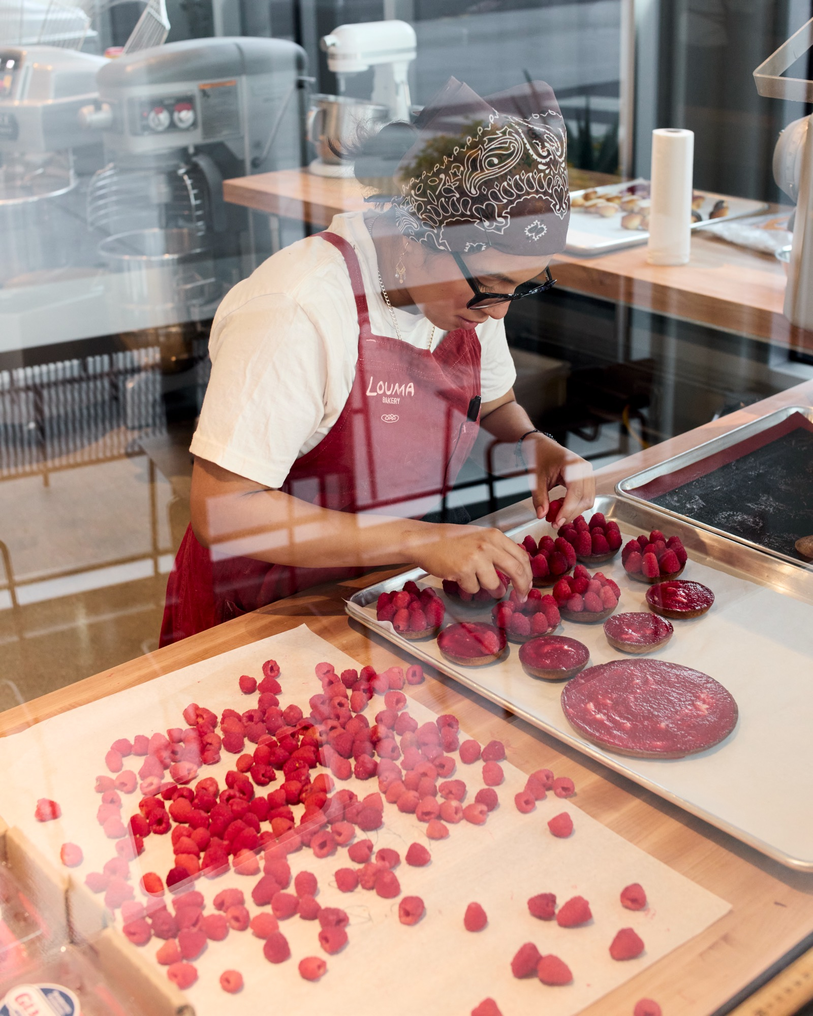
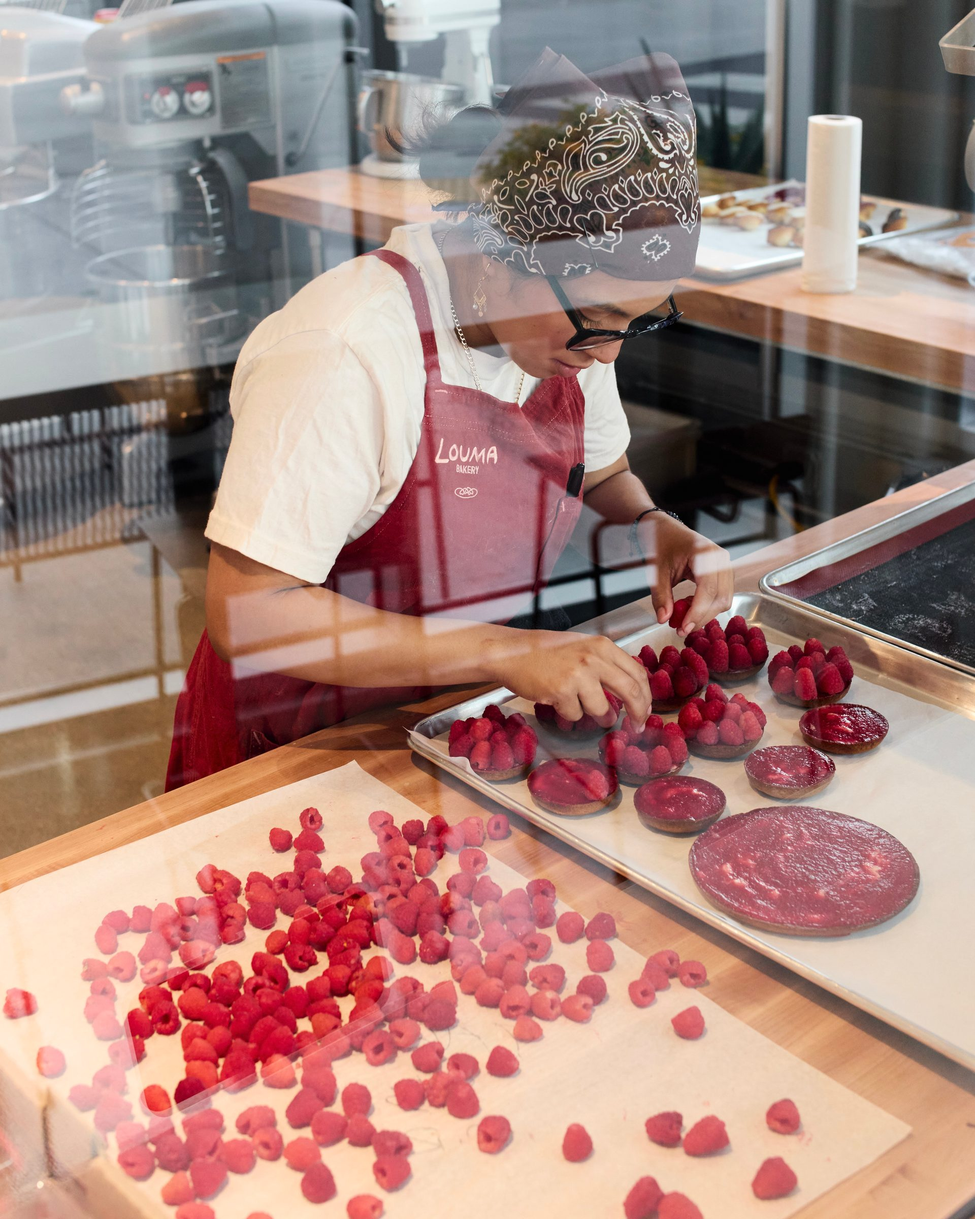
Photography: new shoot, hat cutout, signature, hand-drawn map
- New photos from the owner's Dropbox and the website brief, filed under
  descriptive names: home hero (croissant-grid.jpg, renamed from hero.jpg),
  six home gallery photos, two Our Story photos, the storefront window for
  Contact, six Instagram tiles, and 14 library photos in unplaced/.
  Same-shot files referenced by menu.json were refreshed in place.
- Every photo: EXIF orientation applied, sRGB, long edge <= 2400px (hero
  3000px), JPEG q82, all metadata stripped, <= 1.5 MB. Camera roll fixed on
  three frames (storefront 5.05, kitchen 1.0, flowers 0.67 degrees).
- Hat cutout (rembg u2net, shadow dropped, edge cleaned) on Shop.
- signature-milla.svg and map-hand-drawn.svg traced with potrace; the map
  renders in red on Contact with the storefront photo below it.
- images.json reshaped (hero, homeGallery, story, storefront, each with
  alt text), new Zod collection, CMS "Photos" collection to match; old
  founder/story1/story2/ig1 slots removed. instagram.json uses ig-1..6.
- CREDITS.md lists every committed photo with source, shoot and use.

diff --git a/src/content.config.ts b/src/content.config.ts
@@ -96,6 +96,22 @@ const shop = defineCollection({
   }),
 });
 
+// Site photos (CMS: "Images"). Filenames in src/assets/img; every photo has
+// its alt text beside it. homeGallery and story are registered for the next
+// layout phase; hero and storefront render today.
+const photo = z.object({ image: z.string(), alt: z.string() });
+const images = defineCollection({
+  loader: file('src/data/images.json', { parser: (text) => [{ id: 'images', ...JSON.parse(text) }] }),
+  schema: z.object({
+    hero: z.string(),
+    heroAlt: z.string(),
+    homeGallery: z.array(photo),
+    story: z.array(photo),
+    storefront: z.string(),
+    storefrontAlt: z.string(),
+  }),
+});
+
 const instagram = defineCollection({
   loader: file('src/data/instagram.json', {
     parser: (text) => JSON.parse(text).items.map((it: object, i: number) => ({ id: `tile-${i + 1}`, ...it })),
@@ -112,4 +128,5 @@ export const collections = {
   story,
   shop,
   instagram,
+  images,
 };

diff --git a/src/lib/images.ts b/src/lib/images.ts
@@ -3,7 +3,7 @@ import type { ImageMetadata } from 'astro';
 // TODO(photo-ids): unplaced/seeded-knot-tissue.jpg and unplaced/seeded-knot-detail.jpg
 //   look like the coiled Za'atar Croissant (zaatar-croissant.jpg, confirmed by
 //   the case label in 20260904_LoumaBakery_0126) but are not confirmed themselves.
-// TODO(founder-portrait): no portrait of Milla yet; see src/pages/story.astro.
+// TODO(founder-portrait): no portrait of Milla yet (the Story page has no portrait slot).
 
 /**
  * Shared bakery-photo resolver. One eager glob of the image folder, reused by

diff --git a/src/assets/img/CREDITS.md b/src/assets/img/CREDITS.md
@@ -1,50 +1,102 @@
 # Image credits
 
-All photos here are from Louma Bakery's own commissioned shoots, photographed
-by Kayla on 2026-08-30 and 2026-09-04. Processed from the originals (kept
-outside the repo): converted to sRGB, long edge 2400px (plain-croissant 1600px;
-crops are never upscaled), metadata stripped. The build makes the web sizes from these.
+Photos from Louma Bakery's own commissioned shoots (photographed by Kayla on
+2026-08-30 and 2026-09-04), phone photos from the owner's Dropbox (`IMG_` files
+and two undated exports), and two photos extracted from the owner's website
+brief (`website (1).pdf`). Originals are kept outside the repo.
 
-Photos in `unplaced/` are kept for the Visit, Mission, Careers and Catering
-pages but are NOT bundled: the glob in src/lib/images.ts only matches files
-directly in this folder. To use one, move it up a level and reference it.
+Processing (October 2026, Phase 4): EXIF orientation applied, converted to sRGB
+from the embedded profile (Adobe RGB or Display P3), long edge capped at 2400px
+(the hero at 3000px, plain-croissant at 1600px; never upscaled), JPEG quality 82,
+all metadata stripped (GPS included). Every file is 1.5 MB or less. Camera roll
+was corrected only where a wall, window, shelf or door frame was off by more
+than 0.5 degrees (rotation noted below); subjects placed at an angle on purpose
+were left alone. The build makes the web sizes from these.
 
-| File | Slot | Photographer | Shoot | Original |
-|------|------|--------------|-------|----------|
-| hero.jpg | Home hero; source of public/og-default.jpg | Kayla | 2026-08-30 | 20260830_LoumaBakery_0578 |
-| plain-croissant.jpg | Menu: Plain Croissant (second copy of the hero frame) | Kayla | 2026-08-30 | 20260830_LoumaBakery_0578 |
-| kitchen-team.jpg | Home collage (story2) | Kayla | 2026-08-30 | 20260830_LoumaBakery_0139 |
-| lamination.jpg | Home collage (story1) | Kayla | 2026-08-30 | 20260830_LoumaBakery_0198 |
-| pain-au-chocolat.jpg | Menu: Pain au Chocolat | Kayla | 2026-08-30 | 20260830_LoumaBakery_0093 |
-| ham-cheese-croissant.jpg | Menu: Ham & Cheese Croissant (confirmed by the case label in 20260904_LoumaBakery_0126). Square crop of the seeded tray only, 1200x1200 | Kayla | 2026-08-30 | 20260830_LoumaBakery_0070 (crop x150 y0, 3150x3150) |
-| kaak-bread.jpg | Menu: Kaak Bread. Single top-middle loaf on the bread shelf, 210x210 (menu thumbnail only) | Kayla | 2026-09-04 | 20260904_LoumaBakery_0126 (crop x2722 y1905, 210x210) |
-| baguette.jpg | Menu: Baguette | Kayla | 2026-08-30 | 20260830_LoumaBakery_0258 |
-| latte.jpg | Menu: Latte | Kayla | 2026-08-30 | 20260830_LoumaBakery_0190 |
-| zaatar-croissant.jpg | Menu: Za'atar Croissant; home collage (ig1). Confirmed by the case label in 20260904_LoumaBakery_0126 | Kayla | 2026-08-30 | 20260830_LoumaBakery_0281 |
-| unplaced/staff-at-case.jpg | Unplaced, not bundled (was the classic layout's story3) | Kayla | 2026-08-30 | 20260830_LoumaBakery_0375 |
-| unplaced/seeded-knot-tissue.jpg | Unplaced, not bundled (item unconfirmed) | Kayla | 2026-08-30 | 20260830_LoumaBakery_0278 |
-| unplaced/seeded-knot-detail.jpg | Unplaced, not bundled (item unconfirmed) | Kayla | 2026-08-30 | 20260830_LoumaBakery_0083 |
-| unplaced/coffee-unidentified.jpg | Unplaced, not bundled. Foreground cup with rosetta; drink type unconfirmed (latte, flat white or cappuccino), ask Milla | Kayla | 2026-08-30 | 20260830_LoumaBakery_0190 (crop x2250 y6740, 1500x1000) |
-| unplaced/viennoiserie-spread.jpg | Unplaced, not bundled | Kayla | 2026-08-30 | 20260830_LoumaBakery_0079 |
-| unplaced/madeleine-production.jpg | Unplaced, not bundled | Kayla | 2026-08-30 | 20260830_LoumaBakery_0300 |
-| unplaced/louma-cap.jpg | Unplaced, not bundled | Kayla | 2026-08-30 | 20260830_LoumaBakery_0340 |
-| raspberry-tart.jpg | Menu: Small Raspberry Tart | Kayla | 2026-09-04 | 20260904_LoumaBakery_0034 |
-| sourdough.jpg | Menu: Sourdough Bread (1012x1262 crop of one boule) | Kayla | 2026-09-04 | 20260904_LoumaBakery_0041 |
-| unplaced/bread-wall.jpg | Unplaced, not bundled (shelf of mixed breads) | Kayla | 2026-09-04 | 20260904_LoumaBakery_0041 |
-| madeleine-vanilla.jpg | Menu: Madeleine Vanilla (crop, white finish only) | Kayla | 2026-09-04 | 20260904_LoumaBakery_0049 |
-| madeleine-chocolate.jpg | Menu: Madeleine Chocolate (crop, chocolate finish only, 1486x1800) | Kayla | 2026-09-04 | 20260904_LoumaBakery_0049 |
-| madeleine-raspberry.jpg | Menu: Madeleine Raspberry (crop, raspberry finish only, 1380x1800) | Kayla | 2026-09-04 | 20260904_LoumaBakery_0049 |
-| unplaced/madeleines.jpg | Unplaced, not bundled (tray of all three finishes) | Kayla | 2026-09-04 | 20260904_LoumaBakery_0049 |
-| almond-croissant.jpg | Menu: Nutty Croissant | Kayla | 2026-09-04 | 20260904_LoumaBakery_0146 |
-| croissant-cut.jpg | Story chapter 01 | Kayla | 2026-09-04 | 20260904_LoumaBakery_0307 |
-| out-of-oven.jpg | Story chapter 02 | Kayla | 2026-09-04 | 20260904_LoumaBakery_0255 |
-| bakery-rack.jpg | Story chapter 03 | Kayla | 2026-09-04 | 20260904_LoumaBakery_0068 |
-| storefront.jpg | Story chapter 04 | Kayla | 2026-09-04 | 20260904_LoumaBakery_0084 |
-| unplaced/door-hours.jpg | Unplaced, not bundled | Kayla | 2026-09-04 | 20260904_LoumaBakery_0092 |
-| unplaced/interior-long.jpg | Unplaced, not bundled | Kayla | 2026-09-04 | 20260904_LoumaBakery_0437 |
-| unplaced/interior-dining.jpg | Unplaced, not bundled | Kayla | 2026-09-04 | 20260904_LoumaBakery_0023 |
-| unplaced/counter.jpg | Unplaced, not bundled | Kayla | 2026-09-04 | 20260904_LoumaBakery_0126 |
-| unplaced/back-of-house.jpg | Unplaced, not bundled | Kayla | 2026-09-04 | 20260904_LoumaBakery_0169 |
-| unplaced/dough-dividing.jpg | Unplaced, not bundled | Kayla | 2026-09-04 | 20260904_LoumaBakery_0198 |
-| unplaced/counter-florals.jpg | Unplaced, not bundled | Kayla | 2026-09-04 | 20260904_LoumaBakery_0150 |
-| unplaced/coffee-bar.jpg | Unplaced, not bundled (Display P3 export, full resolution) | Kayla | 2026-09-04 | 20260904_LoumaBakery_0438 |
+Photos in `unplaced/` are the library for later. They are NOT bundled: the glob
+in src/lib/images.ts only matches files directly in this folder. To use one,
+move it up a level and reference it.
+
+"Menu data" means the file is named in `src/data/menu.json`; the Menu page
+shows no photos at the moment.
+
+## Placed (src/assets/img/)
+
+| File | Used for | Source | Shoot |
+|------|----------|--------|-------|
+| croissant-grid.jpg | Home hero (`images.json` hero); source frame of public/og-default.jpg. Renamed from hero.jpg | 20260830_LoumaBakery_0578 | 2026-08-30 |
+| pain-au-chocolat.jpg | Home gallery 1; menu data (Pain au Chocolat) | 20260830_LoumaBakery_0093 | 2026-08-30 |
+| counter-shelves.jpg | Home gallery 2 | brief PDF, page 5 (counter, tile wall, bread shelves; 2048x1366, the only copy) | brief PDF |
+| baker-raspberries.jpg | Home gallery 3 | 20260904_LoumaBakery_0034 | 2026-09-04 |
+| interior-table.jpg | Home gallery 4 | IMG_1703 | phone |
+| kitchen-team.jpg | Home gallery 5. Rotated 1.0° clockwise (window mullions) | 20260830_LoumaBakery_0139 | 2026-08-30 |
+| knot-pink-paper.jpg | Home gallery 6 | 20260830_LoumaBakery_0281 | 2026-08-30 |
+| story-collage.jpg | Our Story photo 1 (registered, placed next phase) | eefec98f-5b8b-45f4-98dd-e80de5f5b7b0 (also on brief PDF page 8) | undated Dropbox export |
+| story-flowers.jpg | Our Story photo 2 (registered, placed next phase). Rotated 0.67° counter-clockwise (door frame, shelving) | brief PDF, page 8 (flowers on the counter; 1536x2048, the only copy) | brief PDF |
+| storefront-window.jpg | Contact page, under the map. Rotated 5.05° counter-clockwise (window frame). Renamed from unplaced/door-hours.jpg | 20260904_LoumaBakery_0092 | 2026-09-04 |
+| ig-1.jpg | Instagram strip tile 1 | IMG_0008 | phone |
+| ig-2.jpg | Instagram strip tile 2 | IMG_1827 4 | phone |
+| ig-3.jpg | Instagram strip tile 3 | IMG_9795 3 | phone |
+| ig-4.jpg | Instagram strip tile 4 | IMG_9855 2 | phone |
+| ig-5.jpg | Instagram strip tile 5 | 20260830_LoumaBakery_0258 | 2026-08-30 |
+| ig-6.jpg | Instagram strip tile 6 | IMG_0255 2 | phone |
+| shop-hat.png | Shop: Louma Hat. Cutout (rembg u2net, cast shadow dropped, edge eroded 3px and feathered 1px at source size), trimmed to the hat plus 4% padding, 1200x983 | 20260830_LoumaBakery_0340 | 2026-08-30 |
+| shop-hat.webp | WebP copy of shop-hat.png (the page renders the PNG through astro:assets) | 20260830_LoumaBakery_0340 | 2026-08-30 |
+| plain-croissant.jpg | Menu data (Plain Croissant). Second copy of the hero frame at 1600px | 20260830_LoumaBakery_0578 | 2026-08-30 |
+| raspberry-tart.jpg | Menu data (Small Raspberry Tart). Same frame as baker-raspberries.jpg | 20260904_LoumaBakery_0034 | 2026-09-04 |
+| zaatar-croissant.jpg | Menu data (Za'atar Croissant). Same frame as knot-pink-paper.jpg | 20260830_LoumaBakery_0281 | 2026-08-30 |
+| baguette.jpg | Menu data (Baguette). Same frame as ig-5.jpg | 20260830_LoumaBakery_0258 | 2026-08-30 |
+| latte.jpg | Menu data (Latte) | 20260830_LoumaBakery_0190 | 2026-08-30 |
+| ham-cheese-croissant.jpg | Menu data (Ham & Cheese Croissant). Square crop of the seeded tray, 1200x1200 (not reprocessed) | 20260830_LoumaBakery_0070 (crop x150 y0, 3150x3150) | 2026-08-30 |
+| kaak-bread.jpg | Menu data (Kaak Bread). One loaf, 210x210 (not reprocessed) | 20260904_LoumaBakery_0126 (crop x2722 y1905) | 2026-09-04 |
+| sourdough.jpg | Menu data (Sourdough Bread). 1012x1262 crop of one boule (not reprocessed) | 20260904_LoumaBakery_0041 | 2026-09-04 |
+| madeleine-vanilla.jpg | Menu data (Madeleine Vanilla). Crop (not reprocessed) | 20260904_LoumaBakery_0049 | 2026-09-04 |
+| madeleine-chocolate.jpg | Menu data (Madeleine Chocolate). Crop, 1486x1800 (not reprocessed) | 20260904_LoumaBakery_0049 | 2026-09-04 |
+| madeleine-raspberry.jpg | Menu data (Madeleine Raspberry). Crop, 1380x1800 (not reprocessed) | 20260904_LoumaBakery_0049 | 2026-09-04 |
+| almond-croissant.jpg | Menu data (Nutty Croissant) (not reprocessed) | 20260904_LoumaBakery_0146 | 2026-09-04 |
+| bakery-rack.jpg | Not used on the site (was Story chapter 03) | 20260904_LoumaBakery_0068 | 2026-09-04 |
+| lamination.jpg | Not used on the site (was the home collage, story1) (not reprocessed) | 20260830_LoumaBakery_0198 | 2026-08-30 |
+| croissant-cut.jpg | Not used on the site (was Story chapter 01) (not reprocessed) | 20260904_LoumaBakery_0307 | 2026-09-04 |
+| out-of-oven.jpg | Not used on the site (was Story chapter 02) (not reprocessed) | 20260904_LoumaBakery_0255 | 2026-09-04 |
+| storefront.jpg | Not used on the site (was Story chapter 04) (not reprocessed) | 20260904_LoumaBakery_0084 | 2026-09-04 |
+
+## Library (src/assets/img/unplaced/, not bundled)
+
+| File | Source | Shoot |
+|------|--------|-------|
+| unplaced/staff-at-case.jpg | 20260830_LoumaBakery_0375 | 2026-08-30 |
+| unplaced/bread-wall.jpg | 20260904_LoumaBakery_0041 (full frame, 2166x2400) | 2026-09-04 |
+| unplaced/croissants-cooling-racks.jpg | 6c8d1115-83e0-403e-b612-73627819e133 2 | undated Dropbox export |
+| unplaced/almond-croissants-tray.jpg | IMG_0018 | phone |
+| unplaced/croissants-yellow-paper.jpg | IMG_0061 2 | phone |
+| unplaced/sandwich-pink-paper.jpg | IMG_0125 | phone |
+| unplaced/swirl-buns-yellow-paper.jpg | IMG_0184 2 | phone |
+| unplaced/swirl-bun-torn.jpg | IMG_0235 2 | phone |
+| unplaced/sugar-bun-plate.jpg | IMG_0261 2 | phone |
+| unplaced/kaak-shelf.jpg | IMG_0278 2 | phone |
+| unplaced/pastry-tray-table.jpg | IMG_0292 2 | phone |
+| unplaced/bread-shelf-bagged.jpg | IMG_1207 3 | phone |
+| unplaced/swirl-buns-rack.jpg | IMG_2368 3 | phone |
+| unplaced/pastry-tray-overhead.jpg | IMG_2546 2 | phone |
+| unplaced/map-hand-drawn-source.png | brief PDF, page 14 (589x716, the only copy; reference for src/assets/brand/map-hand-drawn.svg) | brief PDF |
+| unplaced/seeded-knot-tissue.jpg | 20260830_LoumaBakery_0278 (not reprocessed) | 2026-08-30 |
+| unplaced/seeded-knot-detail.jpg | 20260830_LoumaBakery_0083 (not reprocessed) | 2026-08-30 |
+| unplaced/coffee-unidentified.jpg | 20260830_LoumaBakery_0190 (crop x2250 y6740, 1500x1000; drink type unconfirmed) (not reprocessed) | 2026-08-30 |
+| unplaced/viennoiserie-spread.jpg | 20260830_LoumaBakery_0079 (not reprocessed) | 2026-08-30 |
+| unplaced/madeleine-production.jpg | 20260830_LoumaBakery_0300 (not reprocessed) | 2026-08-30 |
+| unplaced/louma-cap.jpg | 20260830_LoumaBakery_0340 (the full hat photo; not reprocessed) | 2026-08-30 |
+| unplaced/madeleines.jpg | 20260904_LoumaBakery_0049 (not reprocessed) | 2026-09-04 |
+| unplaced/interior-long.jpg | 20260904_LoumaBakery_0437 (not reprocessed) | 2026-09-04 |
+| unplaced/interior-dining.jpg | 20260904_LoumaBakery_0023 (not reprocessed) | 2026-09-04 |
+| unplaced/counter.jpg | 20260904_LoumaBakery_0126 (not reprocessed) | 2026-09-04 |
+| unplaced/back-of-house.jpg | 20260904_LoumaBakery_0169 (not reprocessed) | 2026-09-04 |
+| unplaced/dough-dividing.jpg | 20260904_LoumaBakery_0198 (not reprocessed) | 2026-09-04 |
+| unplaced/counter-florals.jpg | 20260904_LoumaBakery_0150 (not reprocessed) | 2026-09-04 |
+| unplaced/coffee-bar.jpg | 20260904_LoumaBakery_0438 (Display P3 export, full resolution; not reprocessed) | 2026-09-04 |
+
+## Drawings made from owner material (src/assets/brand/)
+
+| File | Source |
+|------|--------|
+| signature-milla.svg | The handwritten "Milla" from `LOUMA FINAL FINAL (3) 2.PNG` (the letter), cropped at x1897 y3299 593x325, thresholded and traced with potrace |
+| map-hand-drawn.svg | The hand-drawn map, brief PDF page 14 (589x716), traced with potrace. Only a 589x716 copy exists; a higher-resolution scan should be requested from the owner |

diff --git a/src/assets/brand/README.md b/src/assets/brand/README.md
@@ -49,6 +49,18 @@ with 2% padding, `fill="currentColor"`:
 They were split from the page SVGs by a script that groups subpaths by distance and by
 region; path data was never edited. None is used on the site yet.
 
+## Traced from the owner's material (not from the board)
+
+Two files are not the designer's: they were traced with potrace from material the owner
+supplied (see `src/assets/img/CREDITS.md`). Same conventions: tight viewBox,
+`fill="currentColor"`, no default colour.
+
+- `signature-milla.svg`: the handwritten "Milla" from the founder's letter.
+- `map-hand-drawn.svg`: the hand-drawn map of the bakery at Wilshire and Centinela, with
+  the "welcome to LOUMA BAKERY" lettering. Rendered in red on the Contact page. Traced
+  from the only copy (589x716, in the website brief); retrace from a higher-resolution
+  scan when the owner sends one (reference raster: `src/assets/img/unplaced/map-hand-drawn-source.png`).
+
 ## Recolouring
 
 Every file uses `currentColor`. The four marks default to Louma Red through

diff --git a/scripts/README.md b/scripts/README.md
@@ -36,5 +36,5 @@ git diff src/data/menu.json   # review, then commit or discard
 
 ## Other scripts
 - `gen-icons.mjs` — favicons/app icons from the face mark.
-- `gen-og.mjs`: GUARDED, refuses to run. og-default.jpg is now a crop of hero.jpg; `--force-brand-card` restores the old generated card.
+- `gen-og.mjs`: GUARDED, refuses to run. og-default.jpg is now a crop of the hero frame (croissant-grid.jpg, formerly hero.jpg); `--force-brand-card` restores the old generated card.
 - `gen-admin-demo.mjs` — builds /admin-demo's config from /admin's (runs on prebuild).
